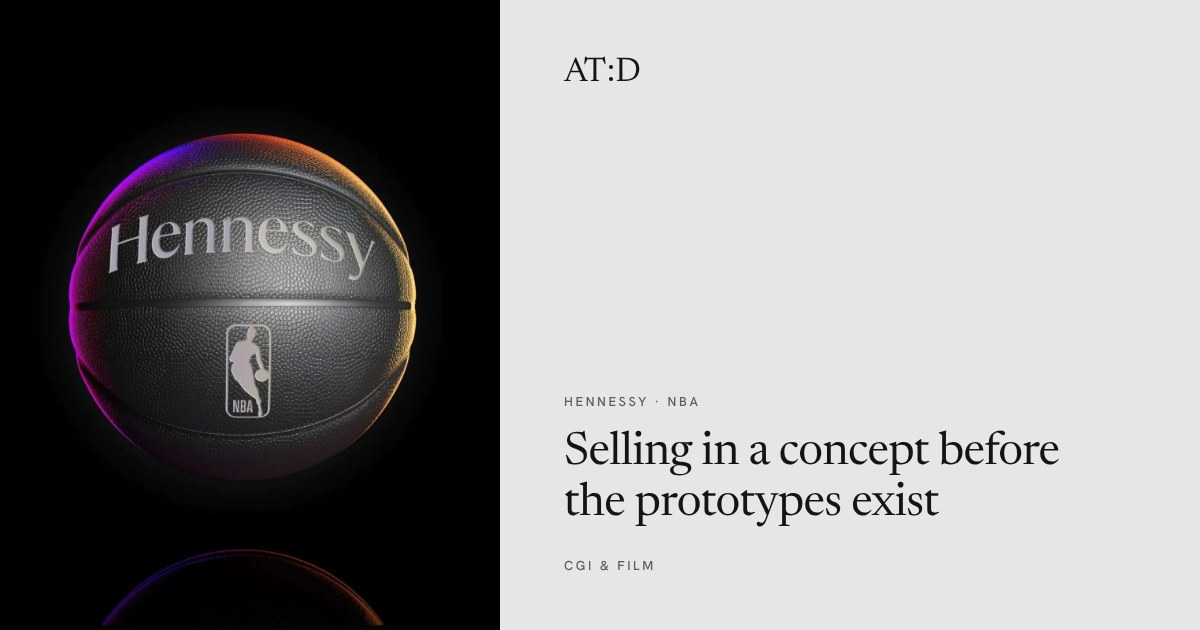
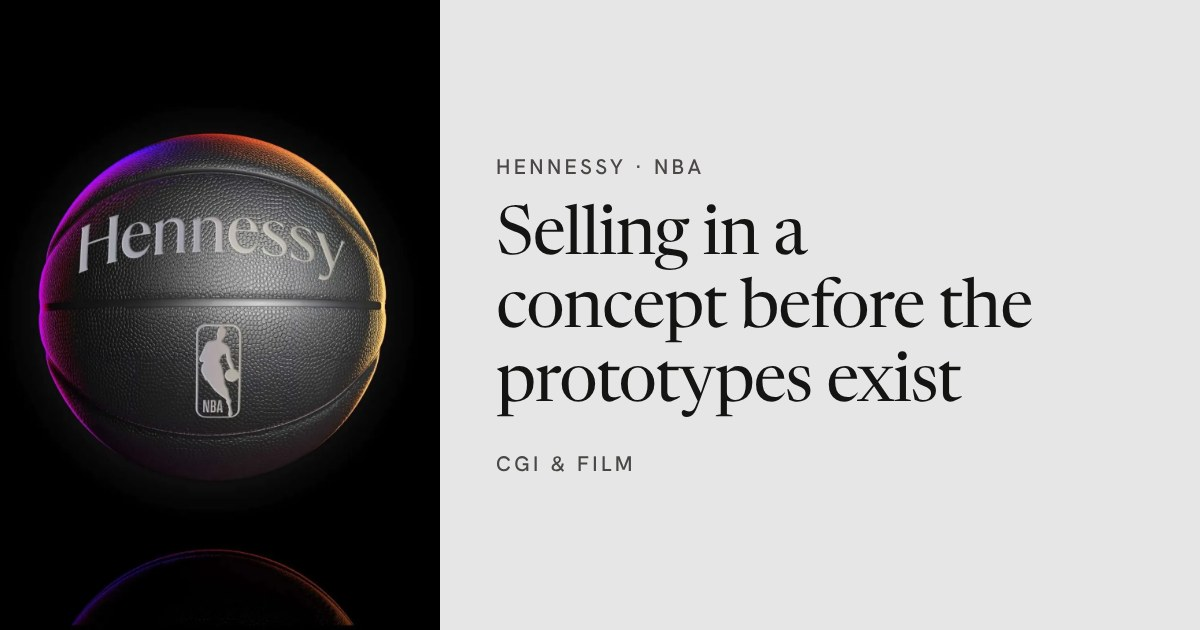
Cartes de partage : texte plus grand, sans AT:D
Claude-Session: https://claude.ai/code/session_01TzkrsKnutAh2YQEZf65EBJ

diff --git a/p/hennessy-douce-prosperite/index.html b/p/hennessy-douce-prosperite/index.html
@@ -7,7 +7,7 @@
 <meta property="og:title" content="Hennessy · Chinese New Year · Designing the Chinese New Year activation, from gift box to store">
 <meta property="og:description" content="A ribbon that embraces the X.O carafe, then unfolds from the gift box to the window.">
 <meta property="og:url" content="https://aldrictrouabal.com/p/hennessy-douce-prosperite/">
-<meta property="og:image" content="https://aldrictrouabal.com/p/hennessy-douce-prosperite/card.jpg?v=2">
+<meta property="og:image" content="https://aldrictrouabal.com/p/hennessy-douce-prosperite/card.jpg?v=3">
 <meta property="og:image:width" content="1200"><meta property="og:image:height" content="630">
 <meta name="twitter:card" content="summary_large_image">
 <link rel="icon" href="/favicon.svg?v=2" type="image/svg+xml">

diff --git a/p/ruinart/index.html b/p/ruinart/index.html
@@ -7,7 +7,7 @@
 <meta property="og:title" content="Ruinart · Turning a shop window into a crayère to tell where the Blanc de Blancs comes from">
 <meta property="og:description" content="A holiday window: a chalk block cut open, and the light that comes down to the bottle.">
 <meta property="og:url" content="https://aldrictrouabal.com/p/ruinart/">
-<meta property="og:image" content="https://aldrictrouabal.com/p/ruinart/card.jpg?v=2">
+<meta property="og:image" content="https://aldrictrouabal.com/p/ruinart/card.jpg?v=3">
 <meta property="og:image:width" content="1200"><meta property="og:image:height" content="630">
 <meta name="twitter:card" content="summary_large_image">
 <link rel="icon" href="/favicon.svg?v=2" type="image/svg+xml">

diff --git a/p/hennessy-nba/index.html b/p/hennessy-nba/index.html
@@ -7,7 +7,7 @@
 <meta property="og:title" content="Hennessy · NBA · Selling in a concept before the prototypes exist">
 <meta property="og:description" content="Images precise enough to get a concept approved before anything is made.">
 <meta property="og:url" content="https://aldrictrouabal.com/p/hennessy-nba/">
-<meta property="og:image" content="https://aldrictrouabal.com/p/hennessy-nba/card.jpg?v=2">
+<meta property="og:image" content="https://aldrictrouabal.com/p/hennessy-nba/card.jpg?v=3">
 <meta property="og:image:width" content="1200"><meta property="og:image:height" content="630">
 <meta name="twitter:card" content="summary_large_image">
 <link rel="icon" href="/favicon.svg?v=2" type="image/svg+xml">
